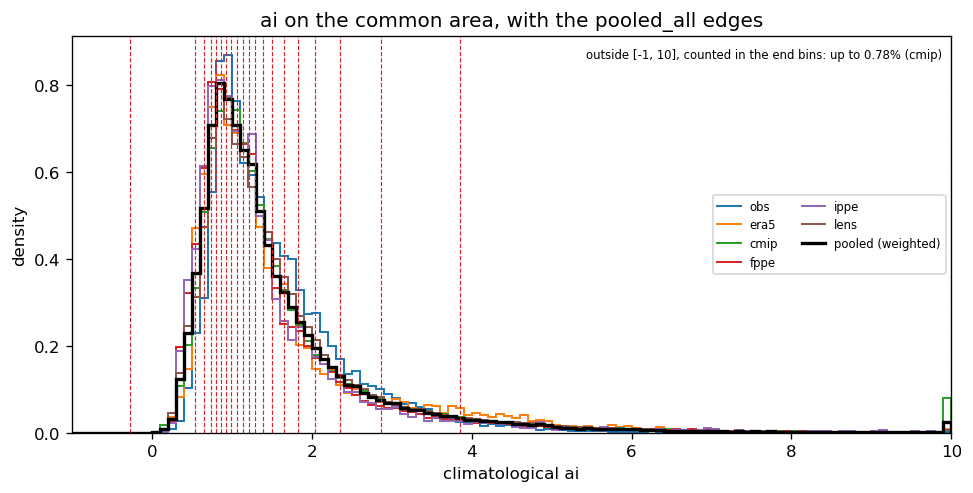
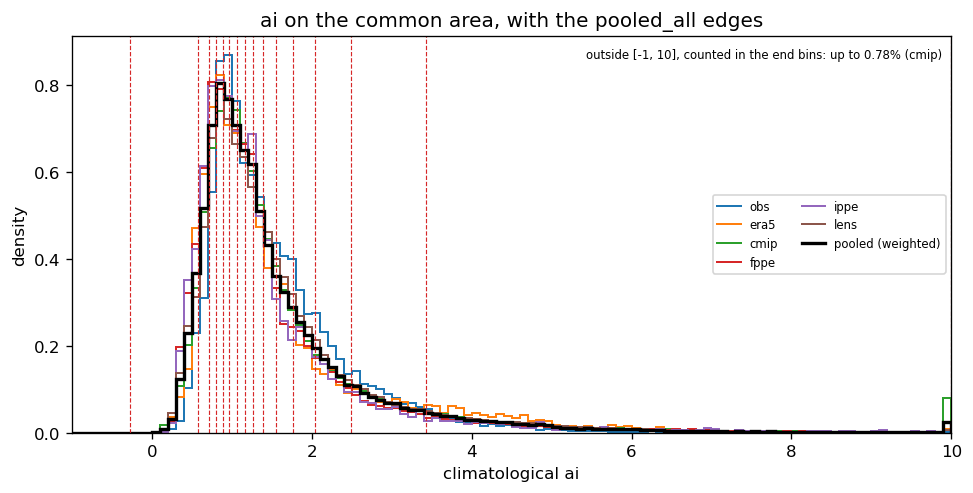
Added quantile figures for nbins=15

Changed region(s): [[0.185, 0.0913, 0.3083, 0.8824]]

diff --git a/etunc/config.py b/etunc/config.py
@@ -81,8 +81,8 @@ BIN_VARIABLE = "et"
 FAMILIES = ("obs", "era5", "cmip", "fppe", "ippe", "lens")
 
 # Binning settings
-N_XBINS = 10         # aridity index
-N_YBINS = 10         # LAI
+N_XBINS = 15         # aridity index
+N_YBINS = 15         # LAI
 SIGNIF_ALPHA = 0.05  # t-test of bin mean ET against 0 (95% confidence)
 SIGNIF_N_MIN = 10    # bins with <= this many samples are never significant
 
